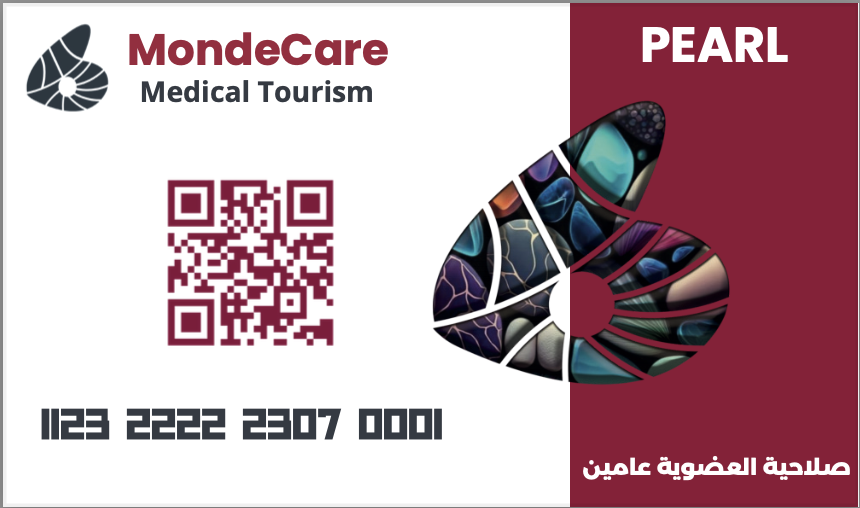
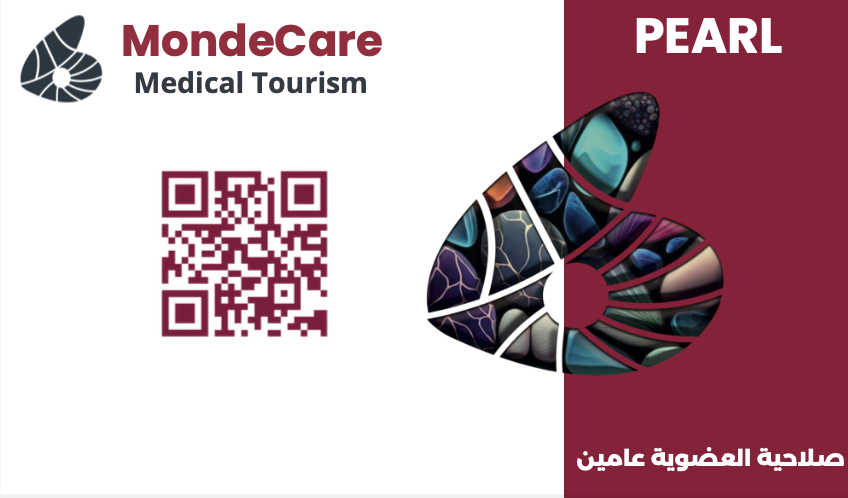
pdf new construction

Changed region(s): [[0.0, 0.0, 1.0, 1.0], [0.4906, 0.1807, 0.8585, 0.7831], [0.184, 0.3313, 0.3986, 0.6928]]

diff --git a/lib/feature/searchUser/searchUserScreen.dart b/lib/feature/searchUser/searchUserScreen.dart
@@ -1,4 +1,4 @@
-// ignore_for_file: camel_case_types, use_build_context_synchronously, non_constant_identifier_names, prefer_typing_uninitialized_variables, file_names
+// ignore_for_file: camel_case_types, use_build_context_synchronously, non_constant_identifier_names, prefer_typing_uninitialized_variables, file_names, avoid_types_as_parameter_names
 
 // import 'dart:html' as html;
 import 'dart:io';
@@ -13,6 +13,7 @@ import 'package:mondecare/config/theme/widgets/Snackbar.dart';
 import 'package:mondecare/config/theme/widgets/drawer.dart';
 import 'package:mondecare/config/theme/widgets/searchbar.dart';
 import 'package:mondecare/config/theme/widgets/text400normal.dart';
+import 'package:mondecare/core/utils/Backend/Backend.dart';
 import 'package:mondecare/feature/searchUser/pdfConstruction/pdfConstructionconstantes.dart';
 import 'package:mondecare/feature/searchUser/searchbloc/Repository/searchRepository.dart';
 import 'package:mondecare/feature/searchUser/searchbloc/searchStateTracker/searchStatusTracker.dart';
@@ -166,33 +167,41 @@ class _searchUserScreenState extends State<searchUserScreen> {
 
   static pw.Widget _buildMemberInfo(
       Customer customer, PdfColor textColor, pw.Font font) {
-    return pw.Column(
-      crossAxisAlignment: pw.CrossAxisAlignment.start,
-      children: [
-        pw.SizedBox(height: 10),
-        _buildInfoRow('Name:', customer.CustomerName, textColor, font),
-        pw.SizedBox(height: 5),
-        _buildInfoRow(
-            'Identity Number :', customer.IdentityNumber, textColor, font),
-        pw.SizedBox(height: 5),
-        _buildInfoRow('Phone Number :', customer.PhoneNumber, textColor, font),
-        pw.SizedBox(height: 5),
-        _buildInfoRow('Country  :', customer.Country, textColor, font),
-        pw.SizedBox(height: 5),
-        _buildInfoRow(
-            'Birthday  :',
-            '${customer.Birthday.day}/${customer.Birthday.month}/${customer.Birthday.year}',
-            textColor,
-            font),
-        pw.SizedBox(height: 5),
-        _buildInfoRow(
-            'MemberShip Date :',
-            ' ${customer.MemberShipDate.day}/${customer.MemberShipDate.month}/${customer.MemberShipDate.year}',
-            textColor,
-            font),
-        pw.SizedBox(height: 5),
-      ],
-    );
+    return pw.Container(
+        decoration: pw.BoxDecoration(
+          borderRadius: const pw.BorderRadius.all(pw.Radius.circular(14)),
+          border: pw.Border.all(width: 5, color: PdfColor.fromHex('#A37E2C')),
+        ),
+        padding: const pw.EdgeInsets.all(16),
+        margin: const pw.EdgeInsets.symmetric(vertical: 16),
+        child: pw.Column(
+          crossAxisAlignment: pw.CrossAxisAlignment.start,
+          children: [
+            pw.SizedBox(height: 5),
+            _buildInfoRow('Name:', customer.CustomerName, textColor, font),
+            pw.SizedBox(height: 5),
+            _buildInfoRow(
+                'Identity Number :', customer.IdentityNumber, textColor, font),
+            pw.SizedBox(height: 5),
+            _buildInfoRow(
+                'Phone Number :', customer.PhoneNumber, textColor, font),
+            pw.SizedBox(height: 5),
+            _buildInfoRow('Country  :', customer.Country, textColor, font),
+            pw.SizedBox(height: 5),
+            _buildInfoRow(
+                'Birthday  :',
+                '${customer.Birthday.day}/${customer.Birthday.month}/${customer.Birthday.year}',
+                textColor,
+                font),
+            pw.SizedBox(height: 5),
+            _buildInfoRow(
+                'MemberShip Date :',
+                ' ${customer.MemberShipDate.day}/${customer.MemberShipDate.month}/${customer.MemberShipDate.year}',
+                textColor,
+                font),
+            pw.SizedBox(height: 5),
+          ],
+        ));
   }
 
   static pw.Widget _buildInfoRow(
@@ -320,19 +329,33 @@ class _searchUserScreenState extends State<searchUserScreen> {
   _ss(BuildContext pagecontext, Customer customer, bool WithDownload) async {
     final pdf = pw.Document();
     final backgroundImage = pw.MemoryImage(
-      (await rootBundle.load('assets/images/watermark.png'))
+      (await rootBundle.load('assets/images/watermark.jpg'))
           .buffer
           .asUint8List(),
     );
+
     var data = await rootBundle.load("assets/fonts/artisticfont.ttf");
+    var numberfont = await rootBundle.load("assets/fonts/bolded.ttf");
     final ttf = pw.Font.ttf(data);
+    final ttfBolded = pw.Font.ttf(numberfont);
+    final Card = customer.CardType == Backend.CardTypeVIP
+        ? pw.MemoryImage(
+            (await rootBundle.load('assets/images/vip.png'))
+                .buffer
+                .asUint8List(),
+          )
+        : pw.MemoryImage(
+            (await rootBundle.load('assets/images/pearl.png'))
+                .buffer
+                .asUint8List(),
+          );
     pdf.addPage(pw.Page(
       pageFormat: PdfPageFormat.a4,
       margin: const pw.EdgeInsets.symmetric(horizontal: 0, vertical: 0),
       build: (pw.Context context) {
         return pw.Stack(children: [
           pw.Opacity(
-            opacity: 0.1,
+            opacity: 0.2,
             child: pw.Image(backgroundImage, fit: pw.BoxFit.cover),
           ),
           pw.Container(
@@ -348,18 +371,12 @@ class _searchUserScreenState extends State<searchUserScreen> {
                     height: 150,
                     child: pw.SvgImage(
                         svg: pdfConstruction.svgPicture, fit: pw.BoxFit.cover)),
-                _pdfDevider(),
-                _pdftext(24, 'MemberShip Card', true, true, ttf),
+                _pdftext(24, 'MEMBERSHIP CARD', true, true, ttf),
                 pw.SizedBox(height: 10),
                 _buildMemberInfo(customer, PdfColors.black, ttf),
                 pw.SizedBox(height: 10),
-                _pdfDevider(),
-                pw.SizedBox(height: 10),
-                _pdftext(20, 'Card Number', true, true, ttf),
-                _pdftext(28, customer.CardNumber, false, false, ttf),
-                _pdfDevider(),
-                _pdftext(20, 'Card Type', true, true, ttf),
-                _pdftext(28, customer.CardType, false, false, ttf)
+                pw.SizedBox(height: 30),
+                _cardAndNumber(customer, Card, ttfBolded)
               ],
             ),
           )
@@ -405,20 +422,35 @@ class _searchUserScreenState extends State<searchUserScreen> {
     }
   }
 
+  _cardAndNumber(Customer customer, var Card, var ttfBolded) {
+    return pw.Container(
+        height: 250,
+        width: 410,
+        alignment: pw.Alignment.center,
+        child: pw.Stack(
+          children: [
+            pw.Image(Card, fit: pw.BoxFit.cover),
+            pw.Align(
+                alignment: pw.Alignment.bottomLeft,
+                child: pw.Container(
+                    margin: const pw.EdgeInsets.all(16),
+                    child: pw.Text(
+                      customer.CardNumber,
+                      textAlign: pw.TextAlign.center,
+                      style: pw.TextStyle(
+                          color: PdfColors.black,
+                          fontSize: 16,
+                          font: ttfBolded),
+                    )))
+          ],
+        ));
+  }
+
   void openFile(String filePath) async {
     File file = File(filePath);
     if (await file.exists()) {
       await OpenFile.open(filePath);
-    } else {
-      print('File does not exist.');
     }
-  }
-
-  _pdfDevider() {
-    return pw.Container(
-        color: PdfColors.black,
-        height: 1,
-        margin: const pw.EdgeInsets.only(bottom: 5));
   }
 
   _pdftext(

diff --git a/lib/feature/addUser/addUserScreen.dart b/lib/feature/addUser/addUserScreen.dart
@@ -1,4 +1,4 @@
-// ignore_for_file: non_constant_identifier_names, camel_case_types, file_names
+// ignore_for_file: non_constant_identifier_names, camel_case_types, file_names, library_prefixes
 
 import 'package:country_picker/country_picker.dart' as countryPicker;
 import 'package:flutter/material.dart';
